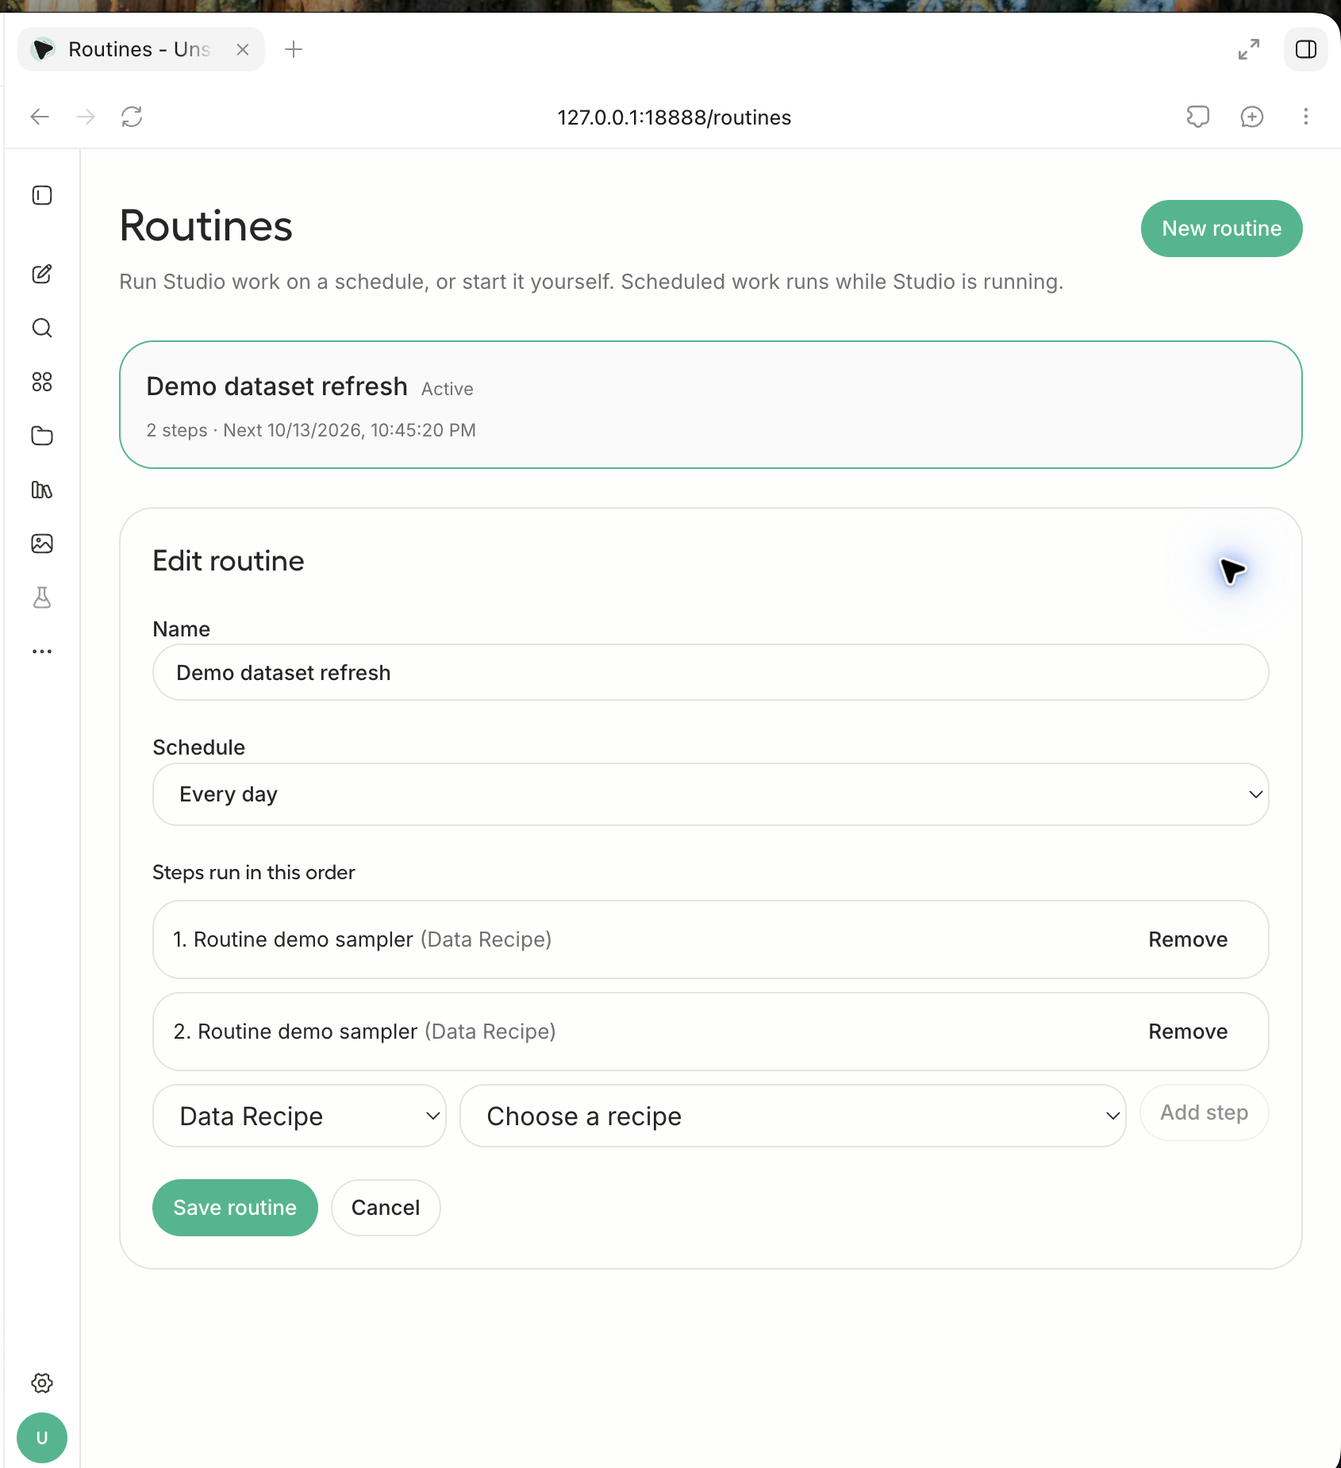
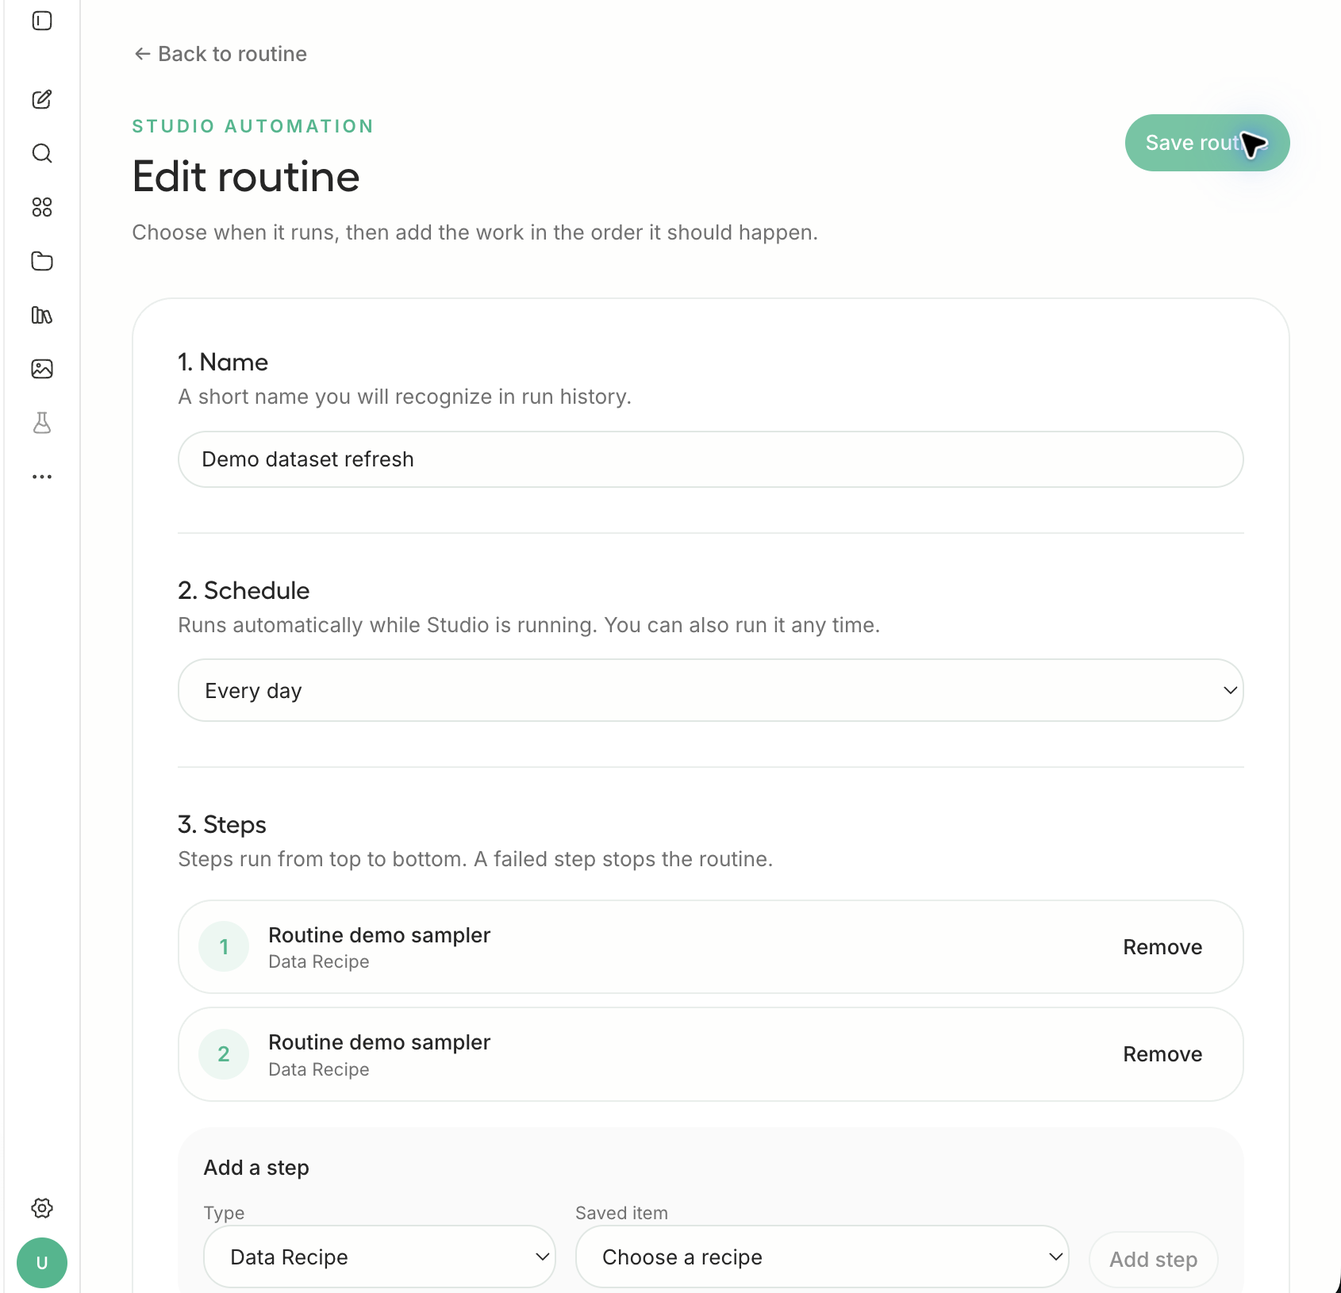
Clarify Studio routines overview and run details

diff --git a/studio/frontend/src/features/routines/routines-page.tsx b/studio/frontend/src/features/routines/routines-page.tsx
@@ -2,6 +2,7 @@
 // Copyright 2026-present the Unsloth AI Inc. team. All rights reserved. See /studio/LICENSE.AGPL-3.0
 
 import { useAppShellReadySignal } from "@/components/app-readiness";
+import { Badge } from "@/components/ui/badge";
 import { Button } from "@/components/ui/button";
 import { Input } from "@/components/ui/input";
 import { authFetch } from "@/features/auth";
@@ -61,6 +62,61 @@ const INTERVALS = [
   [1440, "Every day"],
   [10080, "Every week"],
 ] as const;
+
+function scheduleLabel(minutes: number): string {
+  return INTERVALS.find(([value]) => value === minutes)?.[1] ?? `Every ${minutes} minutes`;
+}
+
+function statusLabel(status: string): string {
+  return status.charAt(0).toUpperCase() + status.slice(1);
+}
+
+function StatusBadge({ status }: { status: string }) {
+  const tone = status === "completed"
+    ? "border-emerald-500/20 bg-emerald-500/10 text-emerald-700 dark:text-emerald-300"
+    : status === "failed" || status === "cancelled"
+      ? "border-destructive/20 bg-destructive/10 text-destructive"
+      : "border-primary/20 bg-primary/10 text-primary";
+  return <Badge variant="outline" className={tone}>{statusLabel(status)}</Badge>;
+}
+
+function RunResult({ run }: { run: RoutineRun }) {
+  return (
+    <div>
+      <div className="flex flex-wrap items-center justify-between gap-3">
+        <div className="flex items-center gap-2">
+          <StatusBadge status={run.status} />
+          <span className="text-sm text-muted-foreground">{run.trigger === "schedule" ? "Scheduled run" : "Started manually"}</span>
+        </div>
+        <span className="text-xs text-muted-foreground">{when(run.created_at)}</span>
+      </div>
+      {run.step_statuses.length === 0 ? (
+        <p className="mt-4 text-sm text-muted-foreground">Waiting for the first step to start.</p>
+      ) : (
+        <ol className="mt-4 divide-y divide-border/70">
+          {run.step_statuses.map((step, index) => (
+            <li key={index} className="flex gap-3 py-3 first:pt-0 last:pb-0">
+              <span className="flex size-7 shrink-0 items-center justify-center rounded-full bg-muted text-xs font-semibold text-muted-foreground">{index + 1}</span>
+              <div className="min-w-0 flex-1">
+                <div className="flex flex-wrap items-center justify-between gap-2">
+                  <span className="font-medium text-foreground">{step.label}</span>
+                  <span className="text-xs text-muted-foreground">{statusLabel(step.status)}</span>
+                </div>
+                {step.summary && <p className="mt-1 text-xs text-muted-foreground">{Object.entries(step.summary).map(([key, count]) => `${count} ${key}`).join(" · ")}</p>}
+                {step.artifact_path && <details className="mt-1 text-xs text-muted-foreground">
+                  <summary className="w-fit cursor-pointer text-primary">Dataset saved · Show location</summary>
+                  <p className="mt-1 break-all">{step.artifact_path}</p>
+                </details>}
+                {step.error && <p className="mt-1 text-xs text-destructive">{step.error}</p>}
+              </div>
+            </li>
+          ))}
+        </ol>
+      )}
+      {run.error && !run.step_statuses.some((step) => step.error) && <p className="mt-3 text-sm text-destructive">{run.error}</p>}
+    </div>
+  );
+}
 
 export function RoutinesPage() {
   const [routines, setRoutines] = useState<Routine[]>([]);
@@ -189,99 +245,169 @@ export function RoutinesPage() {
   const choices = stepKind === "recipe" ? recipes : folders;
 
   return (
-    <main className="mx-auto w-full max-w-6xl flex-1 overflow-y-auto px-6 py-8">
-      <div className="mb-7 flex items-start justify-between gap-4">
-        <div>
-          <h1 className="font-heading text-3xl font-semibold">Routines</h1>
-          <p className="mt-2 text-sm text-muted-foreground">
-            Run Studio work on a schedule, or start it yourself. Scheduled work runs while Studio is running.
-          </p>
-        </div>
-        <Button onClick={beginCreate}>New routine</Button>
-      </div>
-      {error && <p role="alert" className="mb-4 rounded-lg bg-destructive/10 px-4 py-3 text-sm text-destructive">{error}</p>}
-      <div className="grid gap-6 lg:grid-cols-[minmax(260px,1fr)_minmax(0,2fr)]">
-        <section aria-label="Saved routines" className="space-y-3">
-          {routines.length === 0 && <div className="rounded-xl border p-6 text-sm text-muted-foreground">No routines yet. Create one to automate a Data Recipe or linked folder sync.</div>}
-          {routines.map((routine) => (
-            <button key={routine.id} type="button" onClick={() => selectRoutine(routine)}
-              className={`w-full rounded-xl border p-4 text-left transition-colors hover:bg-muted/50 ${selectedId === routine.id ? "border-primary bg-muted/40" : ""}`}>
-              <span className="font-medium">{routine.name}</span>
-              <span className="ml-2 text-xs text-muted-foreground">{routine.enabled ? "Active" : "Paused"}</span>
-              <span className="mt-2 block text-xs text-muted-foreground">
-                {routine.steps.length} {routine.steps.length === 1 ? "step" : "steps"} · {routine.enabled ? `Next ${when(routine.next_run_at)}` : "Paused"}
-              </span>
-            </button>
-          ))}
-        </section>
-        <section className="rounded-xl border p-5">
-          {editing ? (
-            <div className="space-y-5">
-              <h2 className="text-xl font-semibold">{selectedId ? "Edit routine" : "Create routine"}</h2>
-              <label className="block space-y-2 text-sm font-medium">Name
-                <Input value={name} maxLength={120} onChange={(event) => setName(event.target.value)} placeholder="Weekly dataset refresh" />
-              </label>
-              <label className="block space-y-2 text-sm font-medium">Schedule
-                <select className="h-10 w-full rounded-md border bg-background px-3" value={intervalMinutes}
-                  onChange={(event) => setIntervalMinutes(Number(event.target.value))}>
-                  {INTERVALS.map(([minutes, label]) => <option key={minutes} value={minutes}>{label}</option>)}
-                </select>
-              </label>
-              <div className="space-y-2">
-                <h3 className="text-sm font-medium">Steps run in this order</h3>
+    <main className="mx-auto w-full max-w-5xl flex-1 overflow-y-auto px-5 py-8 sm:px-8">
+      {error && <p role="alert" className="mb-6 rounded-xl border border-destructive/20 bg-destructive/10 px-4 py-3 text-sm text-destructive">{error}</p>}
+
+      {editing ? (
+        <div className="mx-auto max-w-3xl">
+          <Button variant="ghost" className="mb-5 -ml-3 text-muted-foreground" onClick={() => setEditing(false)}>
+            ← {selectedId ? "Back to routine" : "All routines"}
+          </Button>
+          <div className="mb-8 flex flex-wrap items-start justify-between gap-4">
+            <div>
+              <p className="text-xs font-semibold uppercase tracking-[0.16em] text-primary">Studio automation</p>
+              <h1 className="mt-2 text-3xl font-semibold tracking-tight">{selectedId ? "Edit routine" : "Create a routine"}</h1>
+              <p className="mt-2 text-sm text-muted-foreground">Choose when it runs, then add the work in the order it should happen.</p>
+            </div>
+            <Button disabled={busy} onClick={() => void save()}>Save routine</Button>
+          </div>
+          <div className="space-y-7 rounded-2xl border border-border/70 bg-card p-5 sm:p-7">
+            <section className="space-y-3">
+              <div><h2 className="font-semibold">1. Name</h2><p className="text-sm text-muted-foreground">A short name you will recognize in run history.</p></div>
+              <Input aria-label="Routine name" value={name} maxLength={120} onChange={(event) => setName(event.target.value)} placeholder="Daily dataset refresh" />
+            </section>
+            <section className="space-y-3 border-t border-border/70 pt-6">
+              <div><h2 className="font-semibold">2. Schedule</h2><p className="text-sm text-muted-foreground">Runs automatically while Studio is running. You can also run it any time.</p></div>
+              <select aria-label="Schedule" className="h-10 w-full rounded-lg border border-border bg-background px-3 text-sm" value={intervalMinutes}
+                onChange={(event) => setIntervalMinutes(Number(event.target.value))}>
+                {INTERVALS.map(([minutes, label]) => <option key={minutes} value={minutes}>{label}</option>)}
+              </select>
+            </section>
+            <section className="space-y-4 border-t border-border/70 pt-6">
+              <div><h2 className="font-semibold">3. Steps</h2><p className="text-sm text-muted-foreground">Steps run from top to bottom. A failed step stops the routine.</p></div>
+              <ol className="space-y-2">
                 {steps.map((step, index) => (
-                  <div key={`${step.kind}-${index}`} className="flex items-center justify-between rounded-lg border px-3 py-2 text-sm">
-                    <span>{index + 1}. {step.label} <span className="text-muted-foreground">({step.kind === "recipe" ? "Data Recipe" : "Folder sync"})</span></span>
+                  <li key={`${step.kind}-${index}`} className="flex items-center gap-3 rounded-xl border border-border/70 bg-background p-3">
+                    <span className="flex size-8 shrink-0 items-center justify-center rounded-full bg-primary/10 text-sm font-semibold text-primary">{index + 1}</span>
+                    <div className="min-w-0 flex-1">
+                      <p className="truncate text-sm font-medium">{step.label}</p>
+                      <p className="text-xs text-muted-foreground">{step.kind === "recipe" ? "Data Recipe" : "Linked folder sync"}</p>
+                    </div>
                     <Button variant="ghost" size="sm" onClick={() => setSteps(steps.filter((_, position) => position !== index))}>Remove</Button>
-                  </div>
+                  </li>
                 ))}
-                <div className="flex flex-wrap gap-2">
-                  <select aria-label="Step type" className="h-10 rounded-md border bg-background px-3" value={stepKind}
-                    onChange={(event) => { setStepKind(event.target.value as typeof stepKind); setStepId(""); }}>
-                    <option value="recipe">Data Recipe</option><option value="folder_sync">Linked folder sync</option>
-                  </select>
-                  <select aria-label="Step source" className="h-10 min-w-44 flex-1 rounded-md border bg-background px-3" value={stepId}
-                    onChange={(event) => setStepId(event.target.value)}>
-                    <option value="">Choose {stepKind === "recipe" ? "a recipe" : "a folder"}</option>
-                    {choices.map((item) => <option key={item.id} value={item.id}>{"name" in item ? item.name : item.displayName}</option>)}
-                  </select>
-                  <Button variant="outline" disabled={!stepId} onClick={addStep}>Add step</Button>
+              </ol>
+              {steps.length === 0 && <p className="rounded-xl border border-dashed p-5 text-sm text-muted-foreground">No steps yet. Choose a saved recipe or linked folder below.</p>}
+              <div className="rounded-xl bg-muted/50 p-4">
+                <p className="mb-3 text-sm font-medium">Add a step</p>
+                <div className="grid gap-3 sm:grid-cols-[minmax(0,1fr)_minmax(0,1.4fr)_auto]">
+                  <label className="space-y-1 text-xs text-muted-foreground">Type
+                    <select className="h-10 w-full rounded-lg border border-border bg-background px-3 text-sm text-foreground" value={stepKind}
+                      onChange={(event) => { setStepKind(event.target.value as typeof stepKind); setStepId(""); }}>
+                      <option value="recipe">Data Recipe</option>
+                      <option value="folder_sync">Linked folder sync</option>
+                    </select>
+                  </label>
+                  <label className="space-y-1 text-xs text-muted-foreground">Saved item
+                    <select className="h-10 w-full rounded-lg border border-border bg-background px-3 text-sm text-foreground" value={stepId}
+                      onChange={(event) => setStepId(event.target.value)}>
+                      <option value="">Choose {stepKind === "recipe" ? "a recipe" : "a folder"}</option>
+                      {choices.map((item) => <option key={item.id} value={item.id}>{"name" in item ? item.name : item.displayName}</option>)}
+                    </select>
+                  </label>
+                  <Button className="self-end" variant="outline" disabled={!stepId} onClick={addStep}>Add step</Button>
                 </div>
-                {choices.length === 0 && <p className="text-xs text-muted-foreground">Create a {stepKind === "recipe" ? "Data Recipe" : "linked folder"} first.</p>}
+                {choices.length === 0 && <p className="mt-3 text-xs text-muted-foreground">Create a {stepKind === "recipe" ? "Data Recipe" : "linked folder"} first.</p>}
               </div>
-              <div className="flex gap-2">
-                <Button disabled={busy} onClick={() => void save()}>Save routine</Button>
-                <Button variant="outline" onClick={() => setEditing(false)}>Cancel</Button>
+            </section>
+          </div>
+        </div>
+      ) : selected ? (
+        <div>
+          <Button variant="ghost" className="mb-5 -ml-3 text-muted-foreground" onClick={() => { setSelectedId(null); setRuns([]); }}>
+            ← All routines
+          </Button>
+          <header className="flex flex-wrap items-start justify-between gap-5">
+            <div>
+              <div className="mb-3 flex items-center gap-2">
+                <Badge variant="outline" className={selected.enabled ? "border-emerald-500/20 bg-emerald-500/10 text-emerald-700 dark:text-emerald-300" : "text-muted-foreground"}>
+                  {selected.enabled ? "Active" : "Paused"}
+                </Badge>
+                <span className="text-sm text-muted-foreground">{scheduleLabel(selected.interval_minutes)}</span>
               </div>
+              <h1 className="text-3xl font-semibold tracking-tight">{selected.name}</h1>
+              <p className="mt-2 text-sm text-muted-foreground">
+                {selected.enabled ? `Next run ${when(selected.next_run_at)}` : "Automatic runs are paused"}
+              </p>
             </div>
-          ) : selected ? (
-            <div className="space-y-6">
-              <div className="flex flex-wrap items-start justify-between gap-3">
-                <div><h2 className="text-xl font-semibold">{selected.name}</h2><p className="text-sm text-muted-foreground">Next run {selected.enabled ? when(selected.next_run_at) : "paused"}</p></div>
-                <div className="flex flex-wrap gap-2">
-                  <Button disabled={busy} onClick={() => void act("run", selected)}>Run now</Button>
-                  <Button variant="outline" disabled={busy} onClick={() => void act("enabled", selected)}>{selected.enabled ? "Pause" : "Resume"}</Button>
-                  <Button variant="outline" onClick={() => setEditing(true)}>Edit</Button>
-                </div>
-              </div>
-              <div><h3 className="mb-2 text-sm font-semibold">Workflow</h3>{selected.steps.map((step, index) => <p key={index} className="border-l-2 border-primary/30 py-1 pl-3 text-sm">{index + 1}. {step.label}</p>)}</div>
-              <div><h3 className="mb-3 text-sm font-semibold">Run history</h3>
-                {runs.length === 0 && <p className="text-sm text-muted-foreground">No runs yet.</p>}
-                <div className="space-y-3">{runs.map((run) => <div key={run.id} className="rounded-lg border p-3 text-sm">
-                  <div className="flex justify-between gap-3"><span className="font-medium">{run.status}</span><span className="text-muted-foreground">{when(run.created_at)} · {run.trigger}</span></div>
-                  {run.step_statuses.map((step, index) => <div key={index} className="mt-2 text-muted-foreground">
-                    <p>{step.label}: {step.status}</p>
-                    {step.summary && <p className="text-xs">{Object.entries(step.summary).map(([key, count]) => `${key}: ${count}`).join(" · ")}</p>}
-                    {step.artifact_path && <p className="break-all text-xs">Output: {step.artifact_path}</p>}
-                    {step.error && <p className="text-xs text-destructive">{step.error}</p>}
-                  </div>)}
-                  {run.error && <p className="mt-2 text-destructive">{run.error}</p>}
-                </div>)}</div>
-              </div>
+            <div className="flex flex-wrap gap-2">
+              <Button disabled={busy} onClick={() => void act("run", selected)}>Run now</Button>
+              <Button variant="outline" disabled={busy} onClick={() => void act("enabled", selected)}>{selected.enabled ? "Pause" : "Resume"}</Button>
+              <Button variant="outline" onClick={() => setEditing(true)}>Edit</Button>
             </div>
-          ) : <div className="space-y-3 text-sm text-muted-foreground"><p>Select a routine to view its runs, or create one.</p><Link className="text-primary underline" to="/data-recipes">Browse Data Recipes</Link></div>}
-        </section>
-      </div>
+          </header>
+          <div className="mt-8 grid items-start gap-5 lg:grid-cols-[minmax(0,1fr)_minmax(0,1.15fr)]">
+            <section className="rounded-2xl border border-border/70 bg-card p-5 sm:p-6" aria-label="Workflow">
+              <div className="flex items-baseline justify-between gap-3">
+                <h2 className="text-lg font-semibold">What runs</h2>
+                <span className="text-xs text-muted-foreground">{selected.steps.length} {selected.steps.length === 1 ? "step" : "steps"}</span>
+              </div>
+              <ol className="mt-5 space-y-4">
+                {selected.steps.map((step, index) => (
+                  <li key={index} className="flex gap-3">
+                    <span className="flex size-8 shrink-0 items-center justify-center rounded-full bg-primary/10 text-sm font-semibold text-primary">{index + 1}</span>
+                    <div className="min-w-0 pt-0.5"><p className="break-words text-sm font-medium">{step.label}</p><p className="mt-0.5 text-xs text-muted-foreground">{step.kind === "recipe" ? "Data Recipe" : "Linked folder sync"}</p></div>
+                  </li>
+                ))}
+              </ol>
+            </section>
+            <section className="rounded-2xl border border-border/70 bg-card p-5 sm:p-6" aria-label="Latest run">
+              <h2 className="text-lg font-semibold">Latest run</h2>
+              {runs[0] ? <div className="mt-5"><RunResult run={runs[0]} /></div> : (
+                <div className="mt-5 rounded-xl bg-muted/50 p-5 text-sm text-muted-foreground">This routine has not run yet. Use Run now to try it.</div>
+              )}
+            </section>
+          </div>
+          {runs.length > 1 && (
+            <details className="mt-6 rounded-2xl border border-border/70 bg-card p-5 sm:p-6">
+              <summary className="cursor-pointer text-sm font-semibold">Earlier runs ({runs.length - 1})</summary>
+              <div className="mt-5 space-y-4 border-t border-border/70 pt-5">
+                {runs.slice(1).map((run) => <div key={run.id} className="rounded-xl border border-border/70 p-4"><RunResult run={run} /></div>)}
+              </div>
+            </details>
+          )}
+        </div>
+      ) : (
+        <div>
+          <header className="flex flex-wrap items-start justify-between gap-5">
+            <div>
+              <p className="text-xs font-semibold uppercase tracking-[0.16em] text-primary">Studio automation</p>
+              <h1 className="mt-2 text-3xl font-semibold tracking-tight">Routines</h1>
+              <p className="mt-2 max-w-xl text-sm text-muted-foreground">Schedule saved work and see the result in one place. Routines run while Studio is running.</p>
+            </div>
+            <Button onClick={beginCreate}>Create routine</Button>
+          </header>
+          {routines.length === 0 ? (
+            <div className="mt-9 rounded-2xl border border-dashed border-border bg-card px-6 py-12 text-center">
+              <h2 className="text-lg font-semibold">Your first routine starts here</h2>
+              <p className="mx-auto mt-2 max-w-md text-sm text-muted-foreground">Choose a saved Data Recipe or linked folder, then set how often Studio should run it.</p>
+              <div className="mt-5 flex justify-center gap-3"><Button onClick={beginCreate}>Create routine</Button><Button variant="outline" asChild><Link to="/data-recipes">Browse recipes</Link></Button></div>
+            </div>
+          ) : (
+            <section className="mt-9" aria-label="Saved routines">
+              <h2 className="mb-4 text-sm font-semibold text-muted-foreground">Your routines</h2>
+              <div className="space-y-3">
+                {routines.map((routine) => (
+                  <button key={routine.id} type="button" onClick={() => selectRoutine(routine)}
+                    className="group w-full rounded-2xl border border-border/70 bg-card p-5 text-left transition-colors hover:border-primary/40 hover:bg-muted/20 focus-visible:outline-2 focus-visible:outline-primary">
+                    <div className="flex flex-wrap items-start justify-between gap-4">
+                      <div className="min-w-0">
+                        <div className="flex flex-wrap items-center gap-2">
+                          <h3 className="text-base font-semibold">{routine.name}</h3>
+                          <Badge variant="outline" className={routine.enabled ? "border-emerald-500/20 bg-emerald-500/10 text-emerald-700 dark:text-emerald-300" : "text-muted-foreground"}>{routine.enabled ? "Active" : "Paused"}</Badge>
+                        </div>
+                        <p className="mt-2 text-sm text-muted-foreground">{scheduleLabel(routine.interval_minutes)} · {routine.steps.length} {routine.steps.length === 1 ? "step" : "steps"}</p>
+                        <p className="mt-1 text-xs text-muted-foreground">{routine.enabled ? `Next run ${when(routine.next_run_at)}` : "Automatic runs paused"}</p>
+                      </div>
+                      <span className="text-lg text-muted-foreground transition-transform group-hover:translate-x-1" aria-hidden="true">→</span>
+                    </div>
+                  </button>
+                ))}
+              </div>
+            </section>
+          )}
+        </div>
+      )}
     </main>
   );
 }
